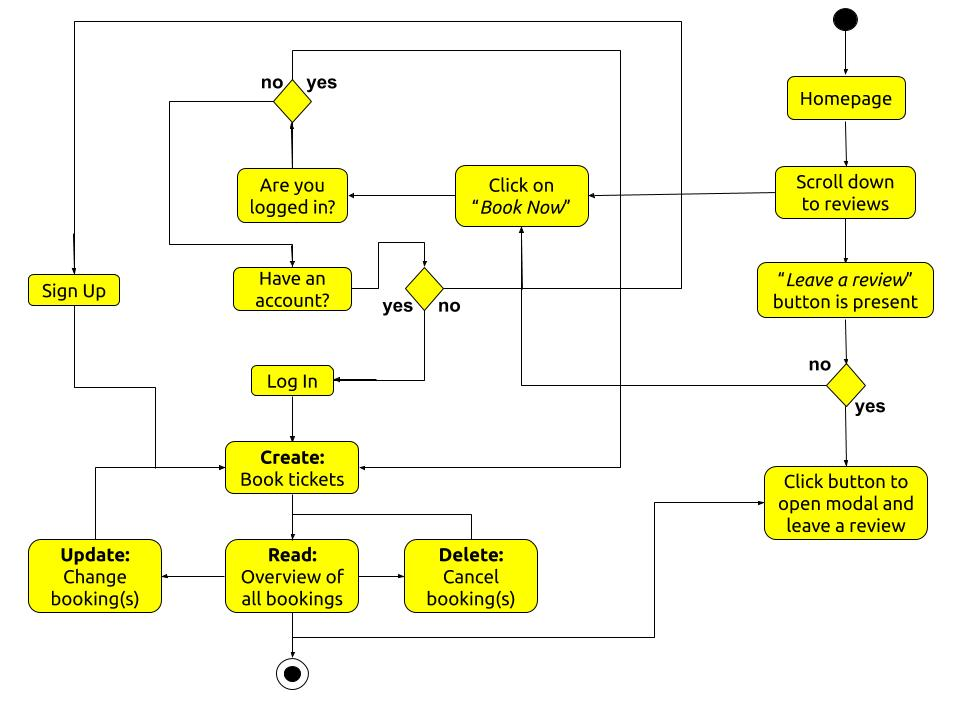
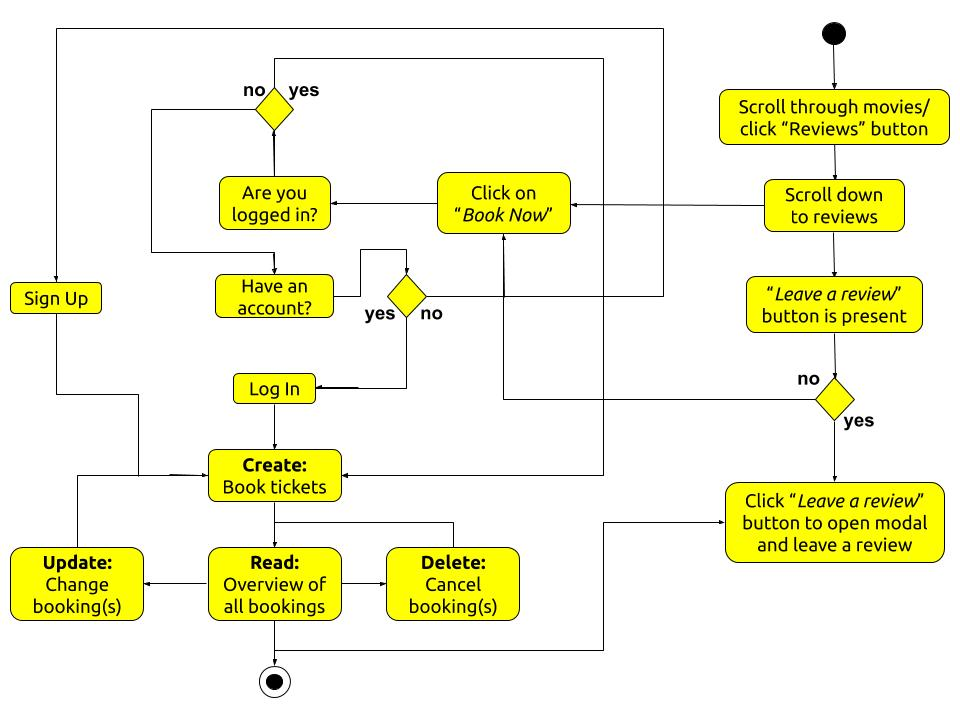
Updated the activity diagram to make it more specific on what the user will do when accessing this app.

diff --git a/static/css/styles.css b/static/css/styles.css
@@ -105,7 +105,7 @@ body {
 /* styles basis of carousel */
 .carousel.carousel-slider.center {
   height: 450px;
-  border: solid green 2px;
+  border: solid black 2px;
 }
 
 /* styles carousel photos */

diff --git a/templates/index.html b/templates/index.html
@@ -50,4 +50,6 @@
         </a>
     </div>
 
+    <button></button>
+
 {% endblock %}
